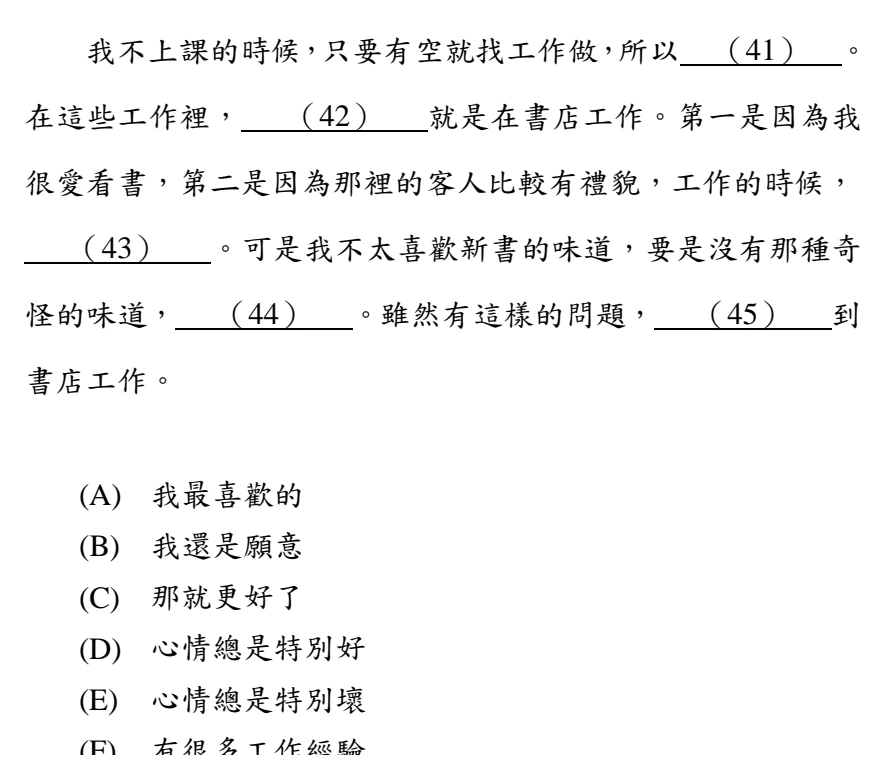
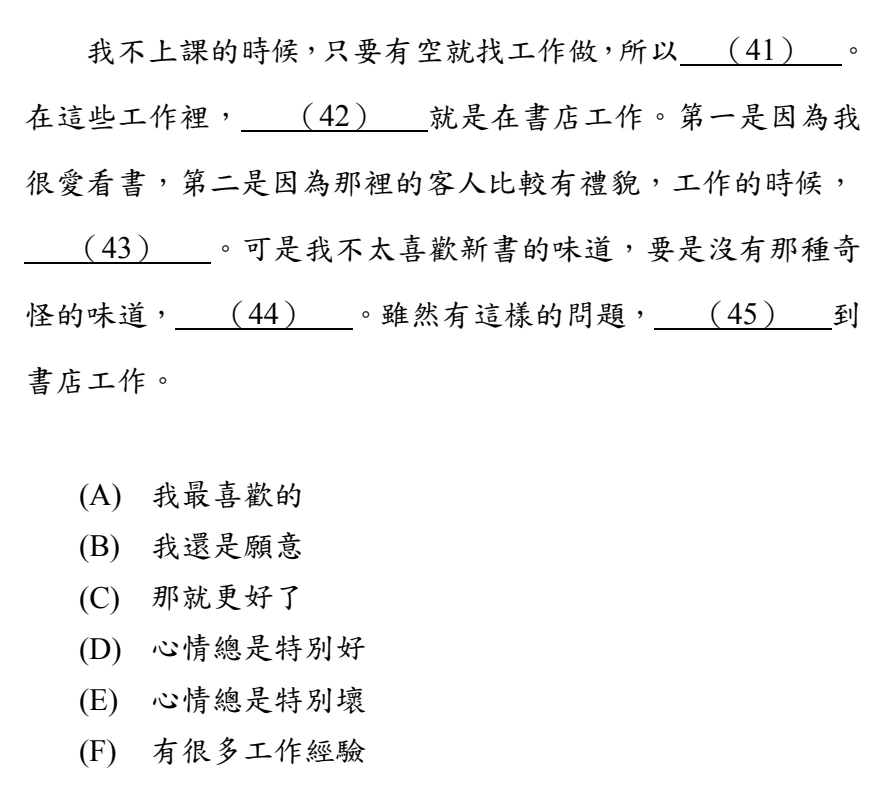
Publish volumes 2–5 with complete paragraph options and updated availability notice

diff --git a/index.html b/index.html
@@ -7,7 +7,7 @@
 function storageGet(kind,key){try{return window[kind].getItem(key)||'';}catch{return '';}}
 function storageSet(kind,key,value){try{window[kind].setItem(key,value);}catch{/* Keep the current session in memory when browser storage is unavailable. */}}
 function storageRemove(kind,key){try{window[kind].removeItem(key);}catch{}}
-const state={messages:{"login":{"zh":"登入練習平台","th":"เข้าสู่ระบบฝึกทำข้อสอบ"},"password":{"zh":"密碼","th":"รหัสผ่าน"},"enter":{"zh":"登入","th":"เข้าสู่ระบบ"},"logout":{"zh":"登出","th":"ออกจากระบบ"},"hello":{"zh":"你好","th":"สวัสดี"},"home":{"zh":"回到首頁","th":"กลับหน้าหลัก"},"welcome":{"zh":"今天想練習什麼？","th":"วันนี้อยากฝึกอะไร?"},"book":{"zh":"按冊學習","th":"ฝึกตามเล่ม"},"type":{"zh":"題型練習","th":"ฝึกตามรูปแบบคำถาม"},"browse":{"zh":"題目瀏覽","th":"ดูคำถามและเฉลย"},"reading":{"zh":"閱讀","th":"การอ่าน"},"listening":{"zh":"聽力","th":"การฟัง"},"start":{"zh":"開始學習","th":"เริ่มฝึก"},"continue":{"zh":"繼續學習","th":"ฝึกต่อ"},"unavailable":{"zh":"尚未開放","th":"ยังไม่เปิดใช้งาน"},"records":{"zh":"我的學習紀錄","th":"บันทึกการเรียนของฉัน"},"answered":{"zh":"已作答","th":"ทำแล้ว"},"correct":{"zh":"答對","th":"ถูก"},"incorrect":{"zh":"答錯","th":"ผิด"},"unanswered":{"zh":"未作答","th":"ยังไม่ทำ"},"rate":{"zh":"正確率","th":"อัตราตอบถูก"},"previous":{"zh":"上一題","th":"ข้อก่อนหน้า"},"next":{"zh":"下一題","th":"ข้อถัดไป"},"submit":{"zh":"提交答案","th":"ส่งคำตอบ"},"answer":{"zh":"正確答案","th":"คำตอบที่ถูกต้อง"},"saved":{"zh":"已儲存到雲端","th":"บันทึกบนคลาวด์แล้ว"},"saving":{"zh":"儲存中…","th":"กำลังบันทึก…"},"loading":{"zh":"載入中…","th":"กำลังโหลด…"},"loginError":{"zh":"登入失敗，請確認帳號密碼，或稍後再試。","th":"เข้าสู่ระบบไม่สำเร็จ กรุณาตรวจสอบบัญชีและรหัสผ่าน หรือลองใหม่ภายหลัง"},"error":{"zh":"無法完成操作，請重試。","th":"ดำเนินการไม่สำเร็จ กรุณาลองใหม่"},"expired":{"zh":"登入已過期，請重新登入。","th":"การเข้าสู่ระบบหมดอายุ กรุณาเข้าสู่ระบบใหม่"},"official":{"zh":"官方線上模擬考","th":"ระบบจำลองข้อสอบทางการ"},"credit":{"zh":"題目來源：華測會 TOCFL 公開模擬試題。","th":"แหล่งข้อสอบ: ข้อสอบจำลองที่เผยแพร่โดย SC-TOP (TOCFL)"},"demo":{"zh":"目前開放官方第一冊練習；第 2–5 冊尚未開放。平台為測試版，泰文待校稿。","th":"เปิดให้ฝึกข้อสอบทางการเล่ม 1 แล้ว เล่ม 2–5 ยังไม่เปิดใช้งาน แพลตฟอร์มอยู่ระหว่างทดสอบ ภาษาไทยรอตรวจทาน"},"noAudio":{"zh":"此題尚無音檔。","th":"ข้อนี้ยังไม่มีไฟล์เสียง"},"chooseType":{"zh":"選擇題型","th":"เลือกรูปแบบคำถาม"},"noAccess":{"zh":"目前未開放任何題本，請聯絡老師。","th":"ยังไม่มีเล่มข้อสอบที่เปิดให้ใช้งาน กรุณาติดต่อครู"},"recent":{"zh":"最近練習","th":"การฝึกล่าสุด"},"progress":{"zh":"學習進度","th":"ความคืบหน้าการเรียน"},"summary":{"zh":"總練習","th":"สรุปการฝึก"},"retry":{"zh":"重試","th":"ลองอีกครั้ง"},"accountHint":{"zh":"請使用老師提供的 email 與個別密碼。","th":"กรุณาใช้อีเมลและรหัสผ่านส่วนตัวที่ครูให้"},"feedback":{"zh":"回饋","th":"ความคิดเห็น"},"noQuestions":{"zh":"這個題本尚無題目。","th":"เล่มนี้ยังไม่มีข้อคำถาม"},"type_sentence":{"zh":"單句理解","th":"ความเข้าใจประโยค"},"type_cloze":{"zh":"選詞填空","th":"เลือกคำเติมในช่องว่าง"},"type_passage":{"zh":"閱讀理解","th":"ความเข้าใจบทอ่าน"},"questionNo":{"zh":"題號","th":"ข้อ"},"imageZoom":{"zh":"放大題目","th":"ขยายภาพข้อสอบ"},"imageError":{"zh":"題目圖片無法載入，請重新整理。","th":"โหลดภาพข้อสอบไม่สำเร็จ กรุณาโหลดหน้าใหม่"},"audioError":{"zh":"音檔無法播放，請重新整理後再試。","th":"เล่นไฟล์เสียงไม่สำเร็จ กรุณาโหลดหน้าใหม่แล้วลองอีกครั้ง"},"type_picture_answer":{"zh":"看圖回答","th":"ตอบคำถามจากภาพ"},"type_single_dialogue":{"zh":"問答理解","th":"ความเข้าใจคำถามและคำตอบ"},"type_multi_dialogue":{"zh":"對話理解","th":"ความเข้าใจบทสนทนา"},"type_dialogue":{"zh":"對話","th":"บทสนทนา"},"type_monologue":{"zh":"段落聽力","th":"ฟังข้อความ"},"type_picture_description":{"zh":"看圖釋義","th":"เลือกคำอธิบายภาพ"},"type_paragraph":{"zh":"完成段落","th":"เติมบทอ่านให้สมบูรณ์"}},lang:'th',token:storageGet('localStorage','tocfl-session')||storageGet('sessionStorage','tocfl-session'),student:null,catalog:[],attempts:[],questions:[],view:'login',mode:'book',book:null,index:0,selected:null,result:null,pendingId:null,busy:false,error:'',type:null,feedbackUrl:'',loginEmail:'',loginPassword:'',bookCache:new Map()};
+const state={messages:{"login":{"zh":"登入練習平台","th":"เข้าสู่ระบบฝึกทำข้อสอบ"},"password":{"zh":"密碼","th":"รหัสผ่าน"},"enter":{"zh":"登入","th":"เข้าสู่ระบบ"},"logout":{"zh":"登出","th":"ออกจากระบบ"},"hello":{"zh":"你好","th":"สวัสดี"},"home":{"zh":"回到首頁","th":"กลับหน้าหลัก"},"welcome":{"zh":"今天想練習什麼？","th":"วันนี้อยากฝึกอะไร?"},"book":{"zh":"按冊學習","th":"ฝึกตามเล่ม"},"type":{"zh":"題型練習","th":"ฝึกตามรูปแบบคำถาม"},"browse":{"zh":"題目瀏覽","th":"ดูคำถามและเฉลย"},"reading":{"zh":"閱讀","th":"การอ่าน"},"listening":{"zh":"聽力","th":"การฟัง"},"start":{"zh":"開始學習","th":"เริ่มฝึก"},"continue":{"zh":"繼續學習","th":"ฝึกต่อ"},"unavailable":{"zh":"尚未開放","th":"ยังไม่เปิดใช้งาน"},"records":{"zh":"我的學習紀錄","th":"บันทึกการเรียนของฉัน"},"answered":{"zh":"已作答","th":"ทำแล้ว"},"correct":{"zh":"答對","th":"ถูก"},"incorrect":{"zh":"答錯","th":"ผิด"},"unanswered":{"zh":"未作答","th":"ยังไม่ทำ"},"rate":{"zh":"正確率","th":"อัตราตอบถูก"},"previous":{"zh":"上一題","th":"ข้อก่อนหน้า"},"next":{"zh":"下一題","th":"ข้อถัดไป"},"submit":{"zh":"提交答案","th":"ส่งคำตอบ"},"answer":{"zh":"正確答案","th":"คำตอบที่ถูกต้อง"},"saved":{"zh":"已儲存到雲端","th":"บันทึกบนคลาวด์แล้ว"},"saving":{"zh":"儲存中…","th":"กำลังบันทึก…"},"loading":{"zh":"載入中…","th":"กำลังโหลด…"},"loginError":{"zh":"登入失敗，請確認帳號密碼，或稍後再試。","th":"เข้าสู่ระบบไม่สำเร็จ กรุณาตรวจสอบบัญชีและรหัสผ่าน หรือลองใหม่ภายหลัง"},"error":{"zh":"無法完成操作，請重試。","th":"ดำเนินการไม่สำเร็จ กรุณาลองใหม่"},"expired":{"zh":"登入已過期，請重新登入。","th":"การเข้าสู่ระบบหมดอายุ กรุณาเข้าสู่ระบบใหม่"},"official":{"zh":"官方線上模擬考","th":"ระบบจำลองข้อสอบทางการ"},"credit":{"zh":"題目來源：華測會 TOCFL 公開模擬試題。","th":"แหล่งข้อสอบ: ข้อสอบจำลองที่เผยแพร่โดย SC-TOP (TOCFL)"},"demo":{"zh":"目前已匯入 Band A、B 第 1–5 冊官方題目。平台為測試版；新冊解析待撰寫，泰文待校稿。","th":"นำเข้าข้อสอบทางการ Band A และ Band B เล่ม 1–5 แล้ว แพลตฟอร์มอยู่ระหว่างทดสอบ คำอธิบายของเล่มใหม่ยังอยู่ระหว่างจัดทำ และภาษาไทยรอตรวจทาน"},"noAudio":{"zh":"此題尚無音檔。","th":"ข้อนี้ยังไม่มีไฟล์เสียง"},"chooseType":{"zh":"選擇題型","th":"เลือกรูปแบบคำถาม"},"noAccess":{"zh":"目前未開放任何題本，請聯絡老師。","th":"ยังไม่มีเล่มข้อสอบที่เปิดให้ใช้งาน กรุณาติดต่อครู"},"recent":{"zh":"最近練習","th":"การฝึกล่าสุด"},"progress":{"zh":"學習進度","th":"ความคืบหน้าการเรียน"},"summary":{"zh":"總練習","th":"สรุปการฝึก"},"retry":{"zh":"重試","th":"ลองอีกครั้ง"},"accountHint":{"zh":"請使用老師提供的 email 與個別密碼。","th":"กรุณาใช้อีเมลและรหัสผ่านส่วนตัวที่ครูให้"},"feedback":{"zh":"回饋","th":"ความคิดเห็น"},"noQuestions":{"zh":"這個題本尚無題目。","th":"เล่มนี้ยังไม่มีข้อคำถาม"},"type_sentence":{"zh":"單句理解","th":"ความเข้าใจประโยค"},"type_cloze":{"zh":"選詞填空","th":"เลือกคำเติมในช่องว่าง"},"type_passage":{"zh":"閱讀理解","th":"ความเข้าใจบทอ่าน"},"questionNo":{"zh":"題號","th":"ข้อ"},"imageZoom":{"zh":"放大題目","th":"ขยายภาพข้อสอบ"},"imageError":{"zh":"題目圖片無法載入，請重新整理。","th":"โหลดภาพข้อสอบไม่สำเร็จ กรุณาโหลดหน้าใหม่"},"audioError":{"zh":"音檔無法播放，請重新整理後再試。","th":"เล่นไฟล์เสียงไม่สำเร็จ กรุณาโหลดหน้าใหม่แล้วลองอีกครั้ง"},"type_picture_answer":{"zh":"看圖回答","th":"ตอบคำถามจากภาพ"},"type_single_dialogue":{"zh":"問答理解","th":"ความเข้าใจคำถามและคำตอบ"},"type_multi_dialogue":{"zh":"對話理解","th":"ความเข้าใจบทสนทนา"},"type_dialogue":{"zh":"對話","th":"บทสนทนา"},"type_monologue":{"zh":"段落聽力","th":"ฟังข้อความ"},"type_picture_description":{"zh":"看圖釋義","th":"เลือกคำอธิบายภาพ"},"type_paragraph":{"zh":"完成段落","th":"เติมบทอ่านให้สมบูรณ์"}},lang:'th',token:storageGet('localStorage','tocfl-session')||storageGet('sessionStorage','tocfl-session'),student:null,catalog:[],attempts:[],questions:[],view:'login',mode:'book',book:null,index:0,selected:null,result:null,pendingId:null,busy:false,error:'',type:null,feedbackUrl:'',loginEmail:'',loginPassword:'',bookCache:new Map()};
 Object.assign(state.messages,{
 pleaseWait:{zh:'正在處理，請稍候；不需要重新輸入。',th:'กำลังดำเนินการ กรุณารอสักครู่ ไม่ต้องกรอกข้อมูลซ้ำ'},
 autoplayHint:{zh:'請點播放開始聆聽；之後每題會嘗試自動播放。',th:'กรุณากดเล่นเพื่อเริ่มฟัง ระบบจะพยายามเล่นเสียงอัตโนมัติในข้อถัดไป'},

diff --git a/scripts/import-volumes/build.py b/scripts/import-volumes/build.py
@@ -78,13 +78,13 @@ for v in range(2,6):
     pageq=sorted([(nn,ww) for nn,(pp,ww) in maps.items() if pp==pi and ww],key=lambda x:(x[1]['top'],x[1]['x0']))
     def add(pp,x0,y0,x1,y1):parts.append(crop(pp,x0,y0,x1,y1));boxes.append([pp+1,x0,y0,x1,y1])
     if k=='type_paragraph':
-     if v in [3,4]:add(pi,40,45 if n<41 else 390,565,390 if n<41 else 780)
-     else:add(pi,40,45,565,780)
+     if v in [3,4]:add(pi,40,45 if n<41 else 390,565,390 if n<41 else p['height']-28)
+     else:add(pi,40,45,565,p['height']-28)
     elif s=='reading' and b=='B' and k=='type_cloze':
      first=min(ww['top'] for _,ww in pageq);add(pi,40,45,565,first-8)
      split=p['width']/2;x0=60 if w['x0']<split-10 else split-5;x1=split-5 if w['x0']<split-10 else 550
      later=[ww['top'] for _,ww in pageq if ww['top']>w['top']+5 and abs(ww['x0']-w['x0'])<35]
-     add(pi,x0,w['top']-5,x1,min(later)-8 if later else 780)
+     add(pi,x0,w['top']-5,x1,min(later)-8 if later else p['height']-28)
     elif s=='reading' and (k in ['type_cloze','type_passage']):
      rom=[ww for ww in words if ROMAN.fullmatch(ww['text']) and ww['top']<w['top']]
      # A section with two passages on a page resets its context at the Roman label.
@@ -94,15 +94,15 @@ for v in range(2,6):
      elif pi>3:
       prev=pages[pi-1]
       assert not any(pp==pi-1 for pp,ww in maps.values()) or b=='A',(f,n,'shared context needs manual review')
-      add(pi-1,40,45,565,780)
+      add(pi-1,40,45,565,p['height']-28)
      later=[ww['top'] for _,ww in pageq if ww['top']>w['top']+5]
      later += [ww['top'] for ww in words if ROMAN.fullmatch(ww['text']) and ww['top']>w['top']+5]
-     add(pi,40,w['top']-5,565,min(later)-8 if later else 780)
+     add(pi,40,w['top']-5,565,min(later)-8 if later else p['height']-28)
     else:
      later=[ww['top'] for _,ww in pageq if ww['top']>w['top']+5]
      # Do not append a later listening preview to the final actual item on a page.
      later += [ww['top'] for ww in words if (ww['text'].startswith('下面是') or ww['text'].startswith('請聽')) and ww['top']>w['top']+8]
-     add(pi,40,w['top']-6,565,min(later)-8 if later else 780)
+     add(pi,40,w['top']-6,565,min(later)-8 if later else p['height']-28)
     im=compose(parts);dest=R/'assets'/f'vol{v}';dest.mkdir(parents=True,exist_ok=True);name=f'{b}-v{v}-{s}-{n:03d}.webp'
     im.save(dest/name,'WEBP',quality=92,method=6)
     count=6 if k=='type_paragraph' else 3 if b=='A' and k not in ['type_dialogue','type_passage'] else 4
